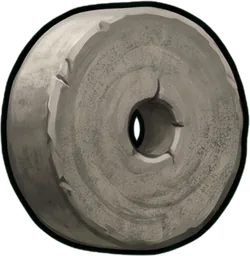
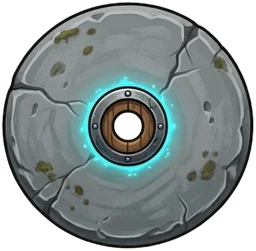
Wankelwagen: reuzenband, steenwiel en maanwiel recht van opzij geschilderd, draaien nu mee (#259)
De oude beelden waren schuin geschilderd en stonden daarom stil.

Claude-Session: https://claude.ai/code/session_01RpQUqChGje6D42DahBxrnd

diff --git a/public/js/ww-draw.js b/public/js/ww-draw.js
@@ -529,10 +529,9 @@ const WwDraw = (() => {
     const naam = v.square ? 'wiel-vierkant' : v.ice ? 'wiel-ijs' : v.stone ? 'wiel-steen' : v.magnet ? 'wiel-magneet' : v.id === 'reus' ? 'wiel-reus' : v.id === 'maan' ? 'wiel-maan' : 'wiel';
     const img = ART[naam];
     if (img) {
-      // Jorns geschilderde wielen. De schuin geschilderde (reuzenband, steen, maan) draaien niet mee, anders wiebelen ze.
+      // Jorns geschilderde wielen, allemaal recht van opzij geschilderd: ze draaien mee met de rit.
       const s = (v.square ? 1.84 : 2.04) * R / Math.max(img.width, img.height);
       g.drawImage(img, -img.width * s / 2, -img.height * s / 2, img.width * s, img.height * s);
-      c.still = naam === 'wiel-reus' || naam === 'wiel-steen' || naam === 'wiel-maan';
       wheelCache.set(v.id, c);
       return c;
     }
@@ -835,7 +834,7 @@ const WwDraw = (() => {
     if (!body.ownWheels) for (const [x, rot] of [[-v.D / 2, o.rb || 0], [v.D / 2, o.rf || 0]]) {
       ctx.save();
       ctx.translate(x * S, 0);
-      if (!ws.still) ctx.rotate(rot);
+      ctx.rotate(rot);
       ctx.drawImage(ws, -wr, -wr, wr * 2, wr * 2);
       ctx.restore();
     }
